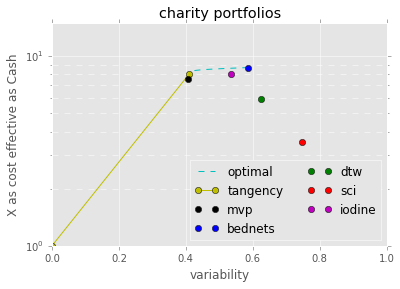
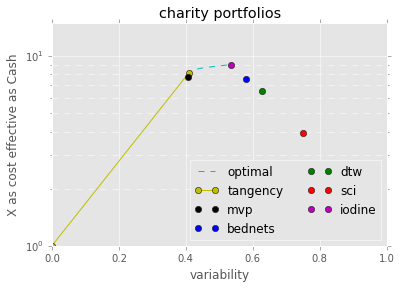
a few calculation updates

diff --git a/ea_test.py b/ea_test.py
@@ -165,7 +165,7 @@ if __name__ == '__main__':
     deworming = {}
     deworming['Benefit on one year\'s income (discounted back 10 years because of delay between deworming and working for income)'] = \
         inputs['Deworming']['Treatment effect of deworming on Ln(total labor earnings)']/ \
-        np.power((1.0 + inputs['Shared']['Discount rate']), 10.0)
+        np.power((1.0 + inputs['Shared']['Discount rate']), inputs['Deworming']['Average number of years between deworming and the beginning of long term benefits - also used for iodine'])
     deworming['Present value of the sum of the lifetime benefits per worker (in terms of Ln(income))'] = \
         deworming['Benefit on one year\'s income (discounted back 10 years because of delay between deworming and working for income)']* \
         (1.0 - 1.0/np.power((1.0 + inputs['Shared']['Discount rate']), inputs['Deworming']['Duration of long term benefits of deworming (years) - also used for iodine']))/ \
@@ -245,14 +245,14 @@ if __name__ == '__main__':
         sci['Proportional increase in consumption per dollar']/cash['Proportional increase in consumption per dollar']
     #sci_p = stats.lognorm.fit(sci['X as cost effective as Cash'])
     #sci_d = stats.lognorm(*sci_p[:-2], loc=sci_p[-2], scale=sci_p[-1])
-    
     bednets['Proportional increase in consumption per dollar'] = \
-        (1.0/bednets['Cost per person-year of protection, adjusted for insecticide resistance: under-14\'s only'])* \
+        inputs['Bednets']['Alternative funders adjustment']* \
+        ((1.0/bednets['Cost per person-year of protection, adjusted for insecticide resistance: under-14\'s only'])* \
         (1.0/inputs['Bednets']['Relative value of year of deworming treatment to development benefits from year of bednet coverage'])* \
         deworming['Adjusted long term benefits per year of treatment (in terms of ln $), assuming income supports household consumption'] + \
         (1.0/bednets['Cost per death averted'])* \
         inputs['Shared']['DALYs per death of a young child averted']* \
-        inputs['Shared']['1 DALY is equivalent to increasing ln(income) by one unit for how many years']
+        inputs['Shared']['1 DALY is equivalent to increasing ln(income) by one unit for how many years'])
     bednets['Cost per equivalent life saved'] = \
         inputs['Shared']['1 DALY is equivalent to increasing ln(income) by one unit for how many years']* \
         inputs['Shared']['DALYs per death of a young child averted']/ \
@@ -266,7 +266,7 @@ if __name__ == '__main__':
     iodine['Benefit on one year\'s income (discounted back 10 years because of delay between deworming and working for income)'] = \
         (inputs['Iodine']['% of benefit of iodine that lasts for the long term']* \
         inputs['Iodine']['Equivalent increase in wages from having iodine throughout childhood'])/ \
-        np.power((1.0 + inputs['Shared']['Discount rate']), 10.0)
+        np.power((1.0 + inputs['Shared']['Discount rate']),  inputs['Deworming']['Average number of years between deworming and the beginning of long term benefits - also used for iodine'])
     iodine['Present value of the sum of the lifetime benefits per worker (in terms of Ln(income))'] = \
         iodine['Benefit on one year\'s income (discounted back 10 years because of delay between deworming and working for income)']* \
         (1.0 - 1.0/np.power((1.0 + inputs['Shared']['Discount rate']), inputs['Deworming']['Duration of long term benefits of deworming (years) - also used for iodine']))/ \

diff --git a/ea_params.py b/ea_params.py
@@ -17,7 +17,7 @@ if __name__ == '__main__':
     
     cash = {'ROI of cash transfers': {'dist': 'array', 'val': [0.15, 0.1, 0.12, 0.19, 0.19, 0.1, 0.08, 0.1, 0.1, 0.15]}, \
         '% of transfers invested': {'dist': 'array', 'val': [0.25, 0.5, 0.35, 0.5, 0.5, 0.5, 0.5, 0.5, 0.5, 0.25]}, \
-        'Duration of benefits in years': {'dist': 'array', 'val': [20.0, 20.0, 15.0, 20.0, 15.0, 20.0, 20.0, 20.0, 20.0, 15.0]}, \
+        'Duration of benefits of cash transfers (years)': {'dist': 'array', 'val': [20.0, 20.0, 15.0, 20.0, 15.0, 20.0, 20.0, 20.0, 20.0, 15.0]}, \
         'Transfers as a percentage of total cost': {'dist': 'array', 'val': [0.828, 0.828, 0.828, 0.828, 0.8, 0.828, 0.828, 0.828, 0.828, 0.828]}, \
         'Average family size': {'dist': 'const', 'val': 4.7}, \
         'Large transfer size, USD': {'dist': 'const', 'val': 1085.0}, \
